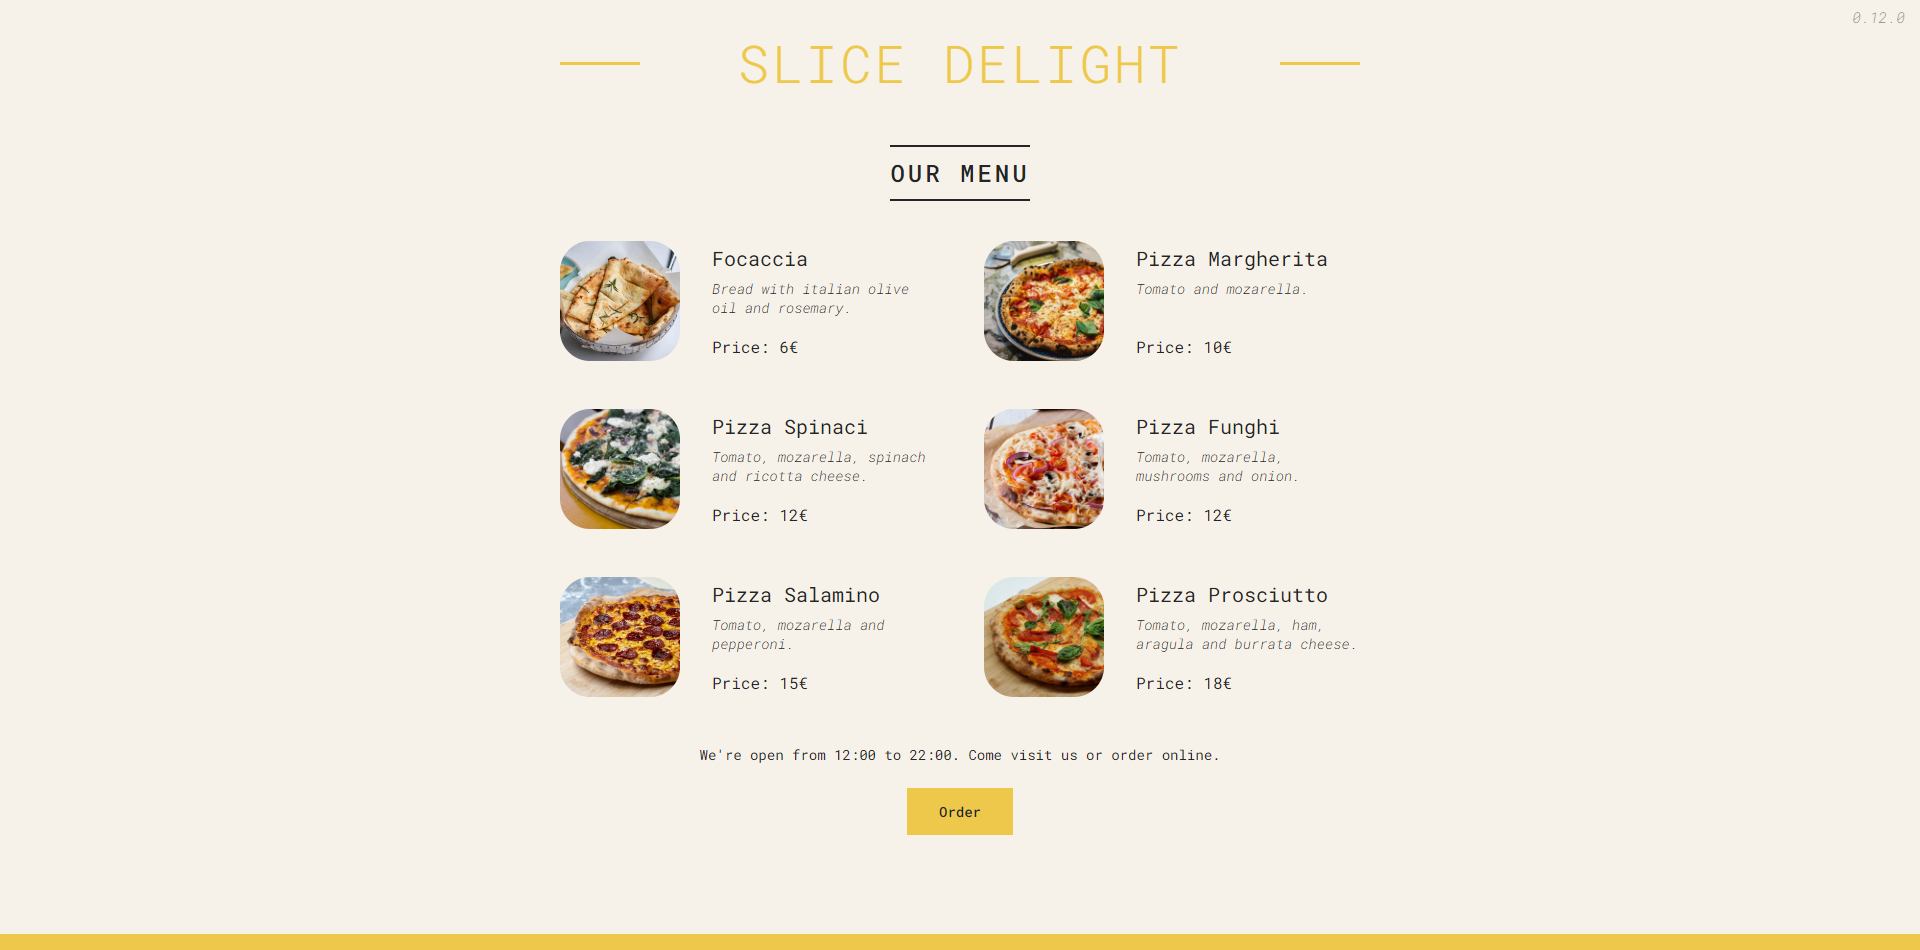
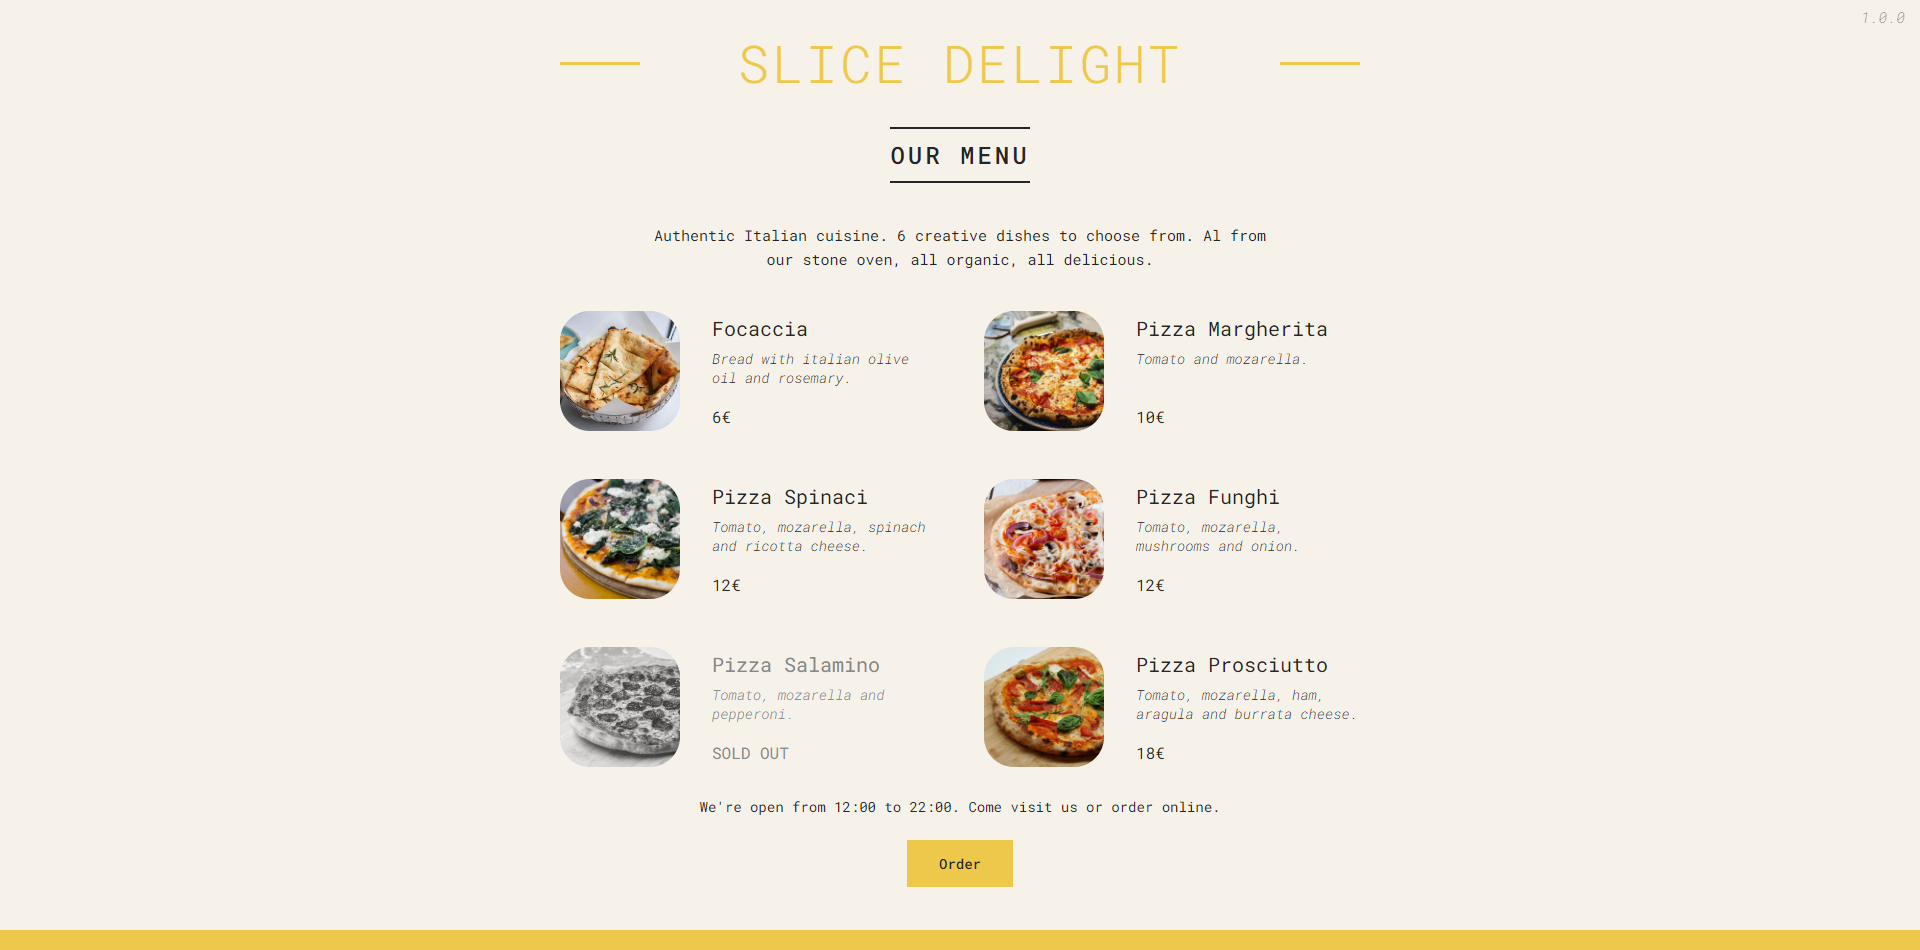
SLICE DELIGHT 1.0.0
Update index.js
Update index.css
Update index.html
Update manifest.json
Delete Unused Files

Changed region(s): [[0.2812, 0.2442, 0.6875, 0.9463], [0.0, 0.9768, 1.0, 1.0], [0.4688, 0.1526, 0.5312, 0.2137]]

diff --git a/src/index.js b/src/index.js
@@ -82,21 +82,32 @@ function Menu() {
     return (
         <main className="menu">
             <h2>Our menu</h2>
-            {numPizzas > 0 && <ul className="pizzas">
-                {pizzas.map(pizza => <Pizza pizza={pizza} key={pizza.id} />)}
-            </ul>}
+            {numPizzas > 0 ? (
+                <>
+                    <p>Authentic Italian cuisine. 6 creative dishes to choose from. Al from our stone oven, all organic, all delicious.</p>
+                    <ul className="pizzas">
+                        {pizzas.map((pizza) => (<Pizza pizza={pizza} key={pizza.name} />))}
+                    </ul>
+                </>
+            ) : (
+                <p>We're still working on our menu. Please come back later:)</p>
+            )}
         </main>
     );
 }
 
 function Pizza({ pizza }) {
     return (
-        <li className="pizza">
+        <li className={`pizza ${pizza.soldOut ? "sold-out" : ""}`}>
             <img src={pizza.photoName} alt={pizza.name}></img>
             <div>
                 <h3>{pizza.name}</h3>
                 <p>{pizza.ingredients}</p>
-                <span>Price: {pizza.price}€</span>
+                {pizza.soldOut ? (
+                    <span>SOLD OUT</span>
+                ) : (
+                    <span>{pizza.price}€</span>
+                )}
             </div>
         </li>
     );
@@ -110,12 +121,11 @@ function Footer() {
 
     return (
         <footer className="footer">
-            {isOpen ?
-                (<Order closeHour={closeHour} openHour={openHour} />
-                ) : (
-                    <p>We're happy to welcome you between {openHour}:00 and {closeHour}:00.</p>
-                )
-            }
+            {isOpen ? (
+                <Order closeHour={closeHour} openHour={openHour} />
+            ) : (
+                <p>We're happy to welcome you between {openHour}:00 and {closeHour}:00.</p>
+            )}
         </footer >
     );
 }

diff --git a/public/index.html b/public/index.html
@@ -2,14 +2,14 @@
 <html lang="en">
   <head>
     <meta charset="utf-8" />
-    <link rel="icon" href="%PUBLIC_URL%/favicon.ico" />
+    <link rel="icon" href="%PUBLIC_URL%/pizzas/funghi.jpg" />
     <meta name="viewport" content="width=device-width, initial-scale=1" />
     <meta name="theme-color" content="#000000" />
     <meta
       name="description"
       content="Web site created using create-react-app"
     />
-    <link rel="apple-touch-icon" href="%PUBLIC_URL%/logo192.png" />
+    <link rel="apple-touch-icon" href="%PUBLIC_URL%/pizzas/funghi.jpg" />
     <!--
       manifest.json provides metadata used when your web app is installed on a
       user's mobile device or desktop. See https://developers.google.com/web/fundamentals/web-app-manifest/
@@ -24,7 +24,7 @@
       work correctly both with client-side routing and a non-root public URL.
       Learn how to configure a non-root public URL by running `npm run build`.
     -->
-    <title>React App</title>
+    <title>Slice Delight</title>
   </head>
   <body>
     <noscript>You need to enable JavaScript to run this app.</noscript>

diff --git a/src/index.css b/src/index.css
@@ -21,7 +21,7 @@ body {
   color: #252525;
   font-weight: 400;
   background-color: #f7f2e9;
-  border-bottom: 1.6rem solid #edc84b;
+  border-bottom: 2rem solid #edc84b;
   min-height: 100vh;
   padding: 3.2rem;
 }
@@ -33,7 +33,7 @@ body {
   display: flex;
   flex-direction: column;
   align-items: center;
-  gap: 4.8rem;
+  gap: 3rem;
 }
 
 /* *************** */

diff --git a/README.md b/README.md
@@ -16,7 +16,7 @@
 
 - **STACK :**
 
-  - **Slice Delight** : `0.12.0`
+  - **Slice Delight** : `1.0.0`
   - **React** : `18.3.1`
   - **React Dom** : `18.3.1`
 
